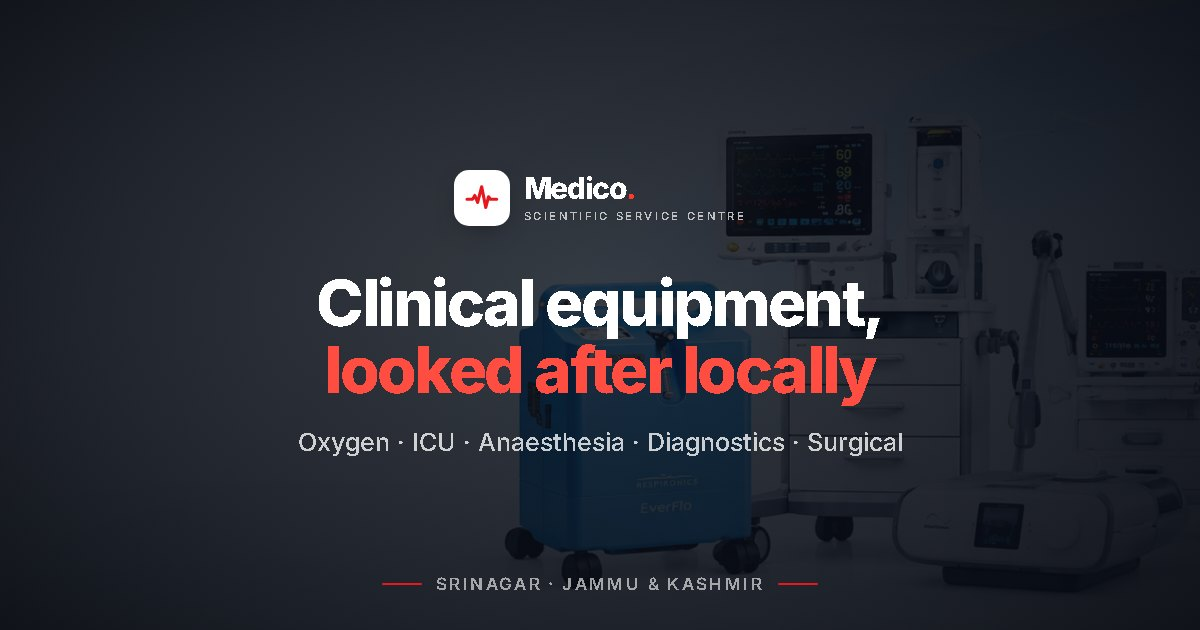
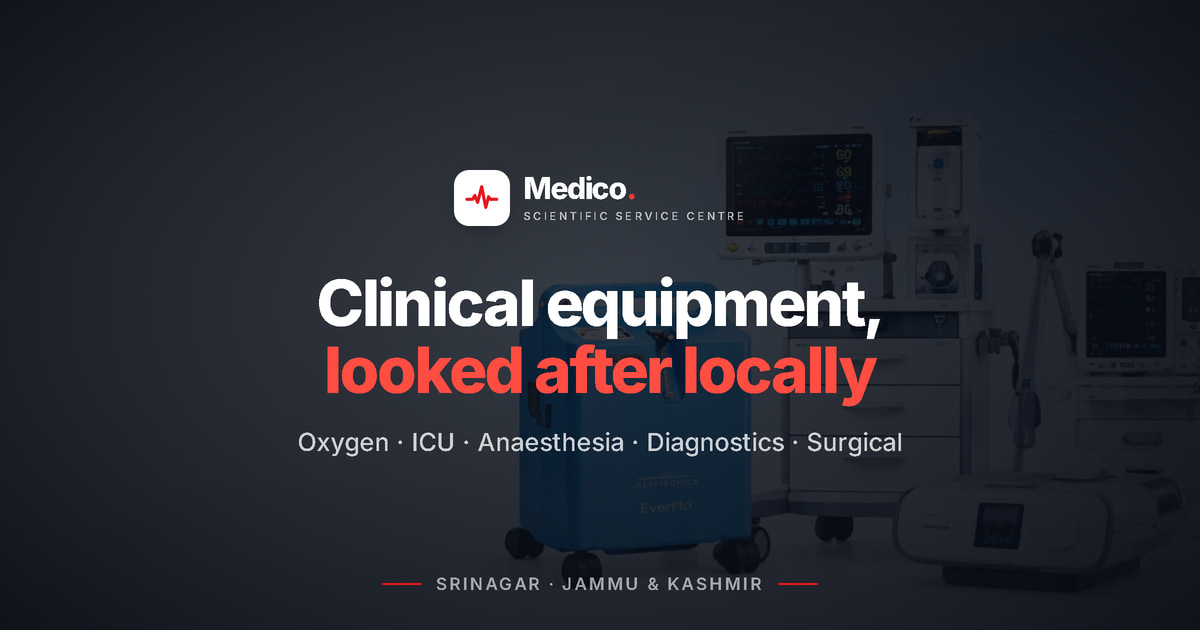
fix: sharper share cards; restore Web3Forms email alerts
- Share cards render at 2x and downsample with lanczos, saved as JPEG
  q92 with 4:4:4 colour (4:2:0 was smearing red text and thin strokes).
  On-demand article/product cards: lanczos resize, light sharpening,
  q90 4:4:4. All cards stay well under WhatsApp's ~300 KB limit.
- The previous commit wrongly dropped api.web3forms.com from the
  content security policy, which would block the browser's enquiry
  email alert. Restored in both headers.js and vercel.json.
- Privacy policy now discloses that each enquiry is also emailed to the
  team via Web3Forms.

diff --git a/tools/og-cards.js b/tools/og-cards.js
@@ -6,6 +6,7 @@ const fs = require('fs');
 const os = require('os');
 const path = require('path');
 const { chromium } = require('playwright');
+const sharp = require('sharp');
 
 const ROOT = path.join(__dirname, '..');
 const OUT = path.join(ROOT, 'images', 'og');
@@ -74,16 +75,20 @@ const frame = (label, light) => `<!doctype html><html><head><style>${base}
 (async () => {
   fs.mkdirSync(OUT, { recursive: true });
   const browser = await chromium.launch();
-  const page = await browser.newPage({ viewport: { width: 1200, height: 630 } });
+  // Rendered at 2x and downsampled: crisper type than a 1x screenshot
+  const page = await browser.newPage({ viewport: { width: 1200, height: 630 }, deviceScaleFactor: 2 });
   const tmp = path.join(os.tmpdir(), 'medico-og.html');
   const render = async (html, file, opts) => {
     fs.writeFileSync(tmp, html);
     await page.goto(`file:///${tmp.replace(/\\/g, '/')}`, { waitUntil: 'load' });
     await page.evaluate(() => document.fonts.ready);
-    await page.screenshot({ path: path.join(OUT, file), ...opts });
+    const shot = await page.screenshot({ type: 'png', omitBackground: Boolean(opts.omitBackground) });
+    const img = sharp(shot).resize(1200, 630, { kernel: 'lanczos3' });
+    // 4:4:4 keeps red text and thin strokes sharp; the default 4:2:0 smears colour edges
+    await (opts.jpeg ? img.jpeg({ quality: 92, chromaSubsampling: '4:4:4', mozjpeg: true }) : img.png({ compressionLevel: 9 })).toFile(path.join(OUT, file));
     console.log('wrote images/og/' + file);
   };
-  for (const c of CARDS) await render(pageCard(c), `${c.file}.jpg`, { type: 'jpeg', quality: 86 });
+  for (const c of CARDS) await render(pageCard(c), `${c.file}.jpg`, { jpeg: true });
   await render(frame('From the Medico blog'), 'frame-post.png', { omitBackground: true });
   await render(frame('Supplied &amp; serviced by Medico', true), 'frame-product.png', { omitBackground: true });
   await browser.close();

diff --git a/privacy-policy.html b/privacy-policy.html
@@ -189,12 +189,13 @@
           <p>We never sell, rent or share your details with advertisers, and we do not send marketing messages you did not ask for.</p>
 
           <h2 id="storage-and-retention">4. Where it is stored and for how long</h2>
-          <p>Enquiries travel over an encrypted (HTTPS) connection and are stored in a secure cloud database that only authorised Medico staff can open, through a password-protected admin area. We keep an enquiry for as long as we need it to serve you, including any warranty or maintenance that follows, and delete it sooner if you ask us to.</p>
+          <p>Enquiries travel over an encrypted (HTTPS) connection. They are stored in a secure cloud database that only authorised Medico staff can open, through a password-protected admin area, and a copy is emailed to our team so we can respond quickly. We keep an enquiry for as long as we need it to serve you, including any warranty or maintenance that follows, and delete it sooner if you ask us to.</p>
 
           <h2 id="third-party-services">5. Services we rely on</h2>
           <ul>
             <li><strong>Vercel</strong> hosts this website.</li>
             <li><strong>Neon</strong> provides the database where enquiries are stored.</li>
+            <li><strong>Web3Forms</strong> delivers each enquiry to our team&rsquo;s email inbox. It receives the details you entered in the form and passes them only to us.</li>
             <li><strong>Google Maps</strong> shows our location on the About page. Google may set its own cookies when the map loads, under Google&rsquo;s privacy policy.</li>
             <li><strong>Google reviews</strong> shown on the site are fetched by our server; no visitor data is sent to Google for this.</li>
             <li><strong>WhatsApp</strong>: if you tap a WhatsApp button, the conversation happens in WhatsApp under Meta&rsquo;s privacy policy.</li>

diff --git a/api/public.js b/api/public.js
@@ -91,14 +91,15 @@ async function og(req, res, q) {
     let img;
     if (kind === 'product') {
       // Product shots are cut-outs on white: show the whole device on a soft studio ground
-      const { data, info } = await sharp(photo).resize(860, 400, { fit: 'inside' }).flatten({ background: '#ffffff' }).toBuffer({ resolveWithObject: true });
+      const { data, info } = await sharp(photo).resize(860, 400, { fit: 'inside', kernel: 'lanczos3' }).flatten({ background: '#ffffff' }).toBuffer({ resolveWithObject: true });
       img = sharp({ create: { width: 1200, height: 630, channels: 3, background: '#ffffff' } })
         .composite([{ input: data, left: Math.round((1200 - info.width) / 2), top: Math.round(110 + (400 - info.height) / 2) }]);
     } else {
-      img = sharp(photo).resize(1200, 630, { fit: 'cover', position: 'attention' });
+      img = sharp(photo).resize(1200, 630, { fit: 'cover', position: 'attention', kernel: 'lanczos3' });
     }
     const flat = await img.flatten({ background: '#ffffff' }).png().toBuffer();
-    const out = await sharp(flat).composite([{ input: frame }]).jpeg({ quality: 84, mozjpeg: true }).toBuffer();
+    // Light sharpening offsets resampling softness; 4:4:4 keeps the frame's text and red rule crisp
+    const out = await sharp(flat).sharpen({ sigma: 0.6 }).composite([{ input: frame }]).jpeg({ quality: 90, chromaSubsampling: '4:4:4', mozjpeg: true }).toBuffer();
     return send(res, 200, out, { 'Content-Type': 'image/jpeg', 'Cache-Control': 'public, max-age=86400, s-maxage=604800, stale-while-revalidate=604800' });
   } catch (err) {
     console.error('[og]', err.message);

diff --git a/api/_lib/headers.js b/api/_lib/headers.js
@@ -8,7 +8,7 @@ const CSP = [
   // https: for Google review avatars and cover-photo candidates shown in the admin
   "img-src 'self' data: blob: https:",
   "media-src 'self' data: blob:",
-  "connect-src 'self'",
+  "connect-src 'self' https://api.web3forms.com",
   'frame-src https://www.google.com https://maps.google.com',
   "frame-ancestors 'self'",
   "base-uri 'self'",
